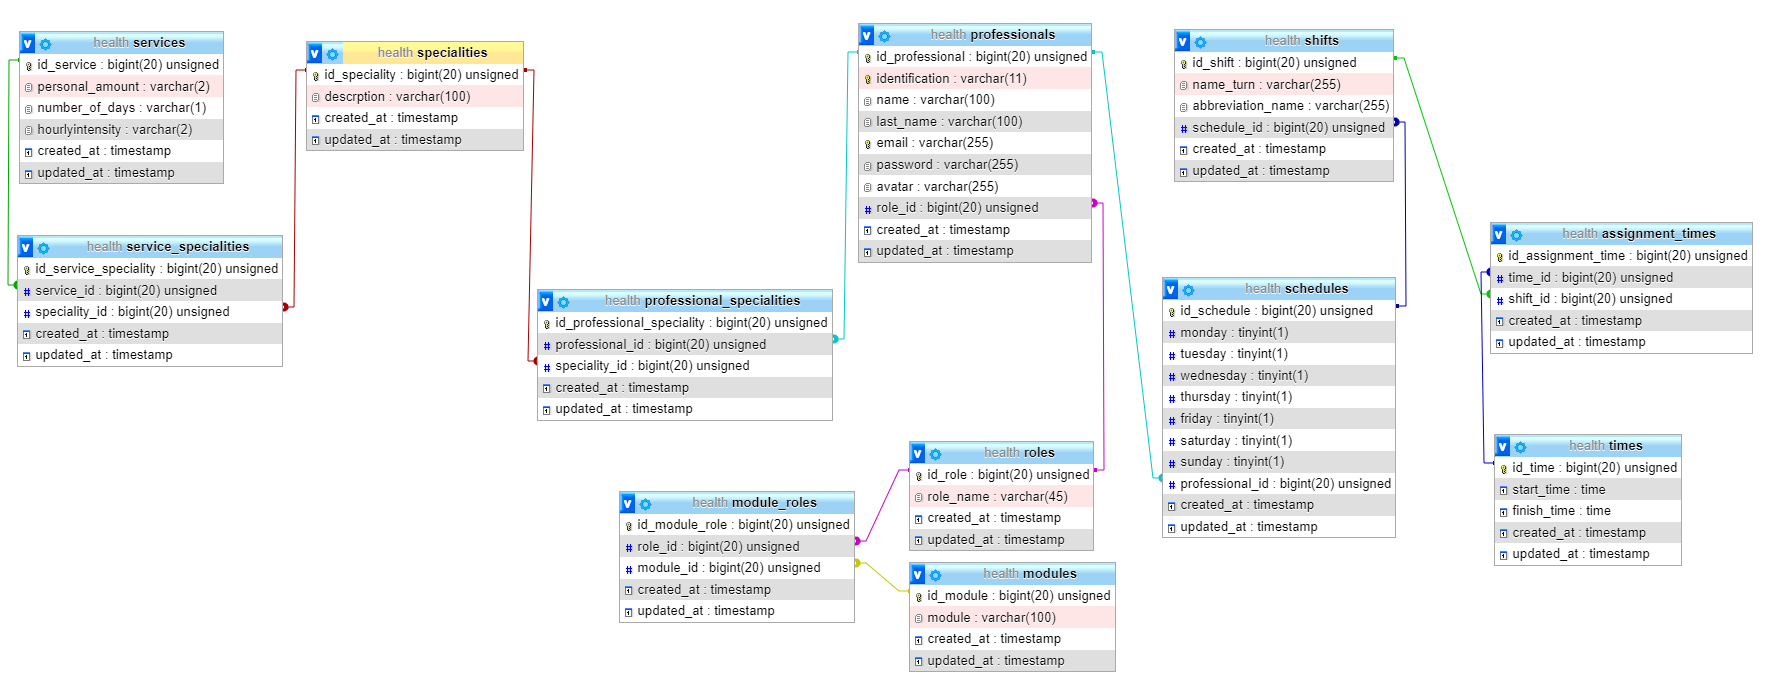
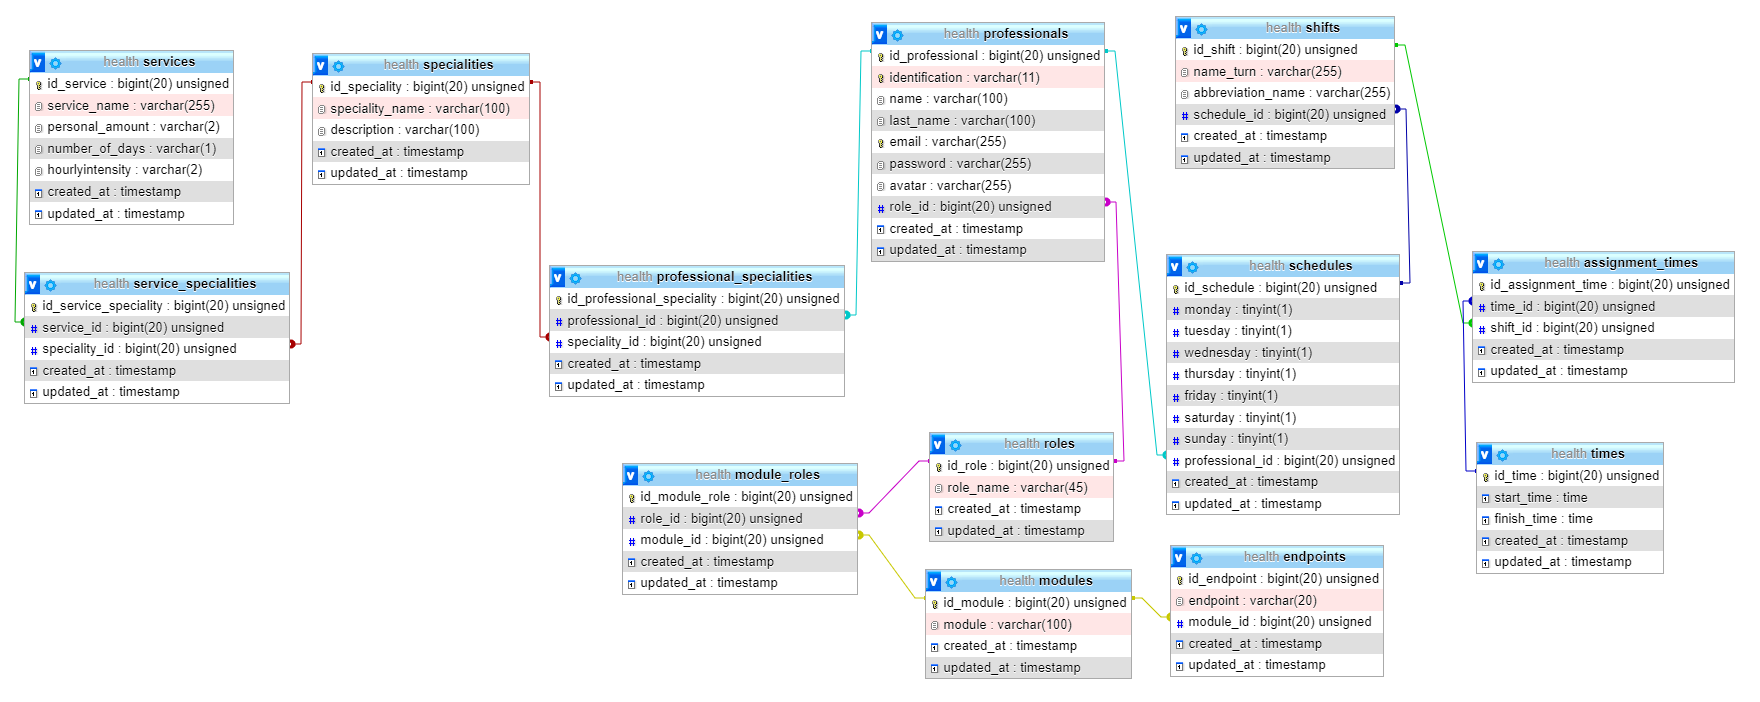
Se aniade tabla 'endpoints' a la base de datos

Changed region(s): [[0.2812, 0.0, 1.0, 0.9739], [0.0, 0.0304, 0.3125, 0.5783]]

diff --git a/backend/database/migrations/2021_10_20_201651_create_endpoints_table.php b/backend/database/migrations/2021_10_20_201651_create_endpoints_table.php
@@ -1,0 +1,36 @@
+<?php
+
+use Illuminate\Database\Migrations\Migration;
+use Illuminate\Database\Schema\Blueprint;
+use Illuminate\Support\Facades\Schema;
+
+use function PHPUnit\Framework\once;
+
+class CreateEndpointsTable extends Migration
+{
+    /**
+     * Run the migrations.
+     *
+     * @return void
+     */
+    public function up()
+    {
+        Schema::create('endpoints', function (Blueprint $table) {
+            $table->id('id_endpoint');
+            $table->string('endpoint', 20);
+            $table->unsignedBigInteger('module_id');
+            $table->foreign('module_id')->references('id_module')->on('modules')->onDelete('cascade');
+            $table->timestamps();
+        });
+    }
+
+    /**
+     * Reverse the migrations.
+     *
+     * @return void
+     */
+    public function down()
+    {
+        Schema::dropIfExists('endpoints');
+    }
+}

diff --git a/backend/database/factories/EndpointFactory.php b/backend/database/factories/EndpointFactory.php
@@ -1,0 +1,28 @@
+<?php
+
+namespace Database\Factories;
+
+use App\Models\Endpoint;
+use Illuminate\Database\Eloquent\Factories\Factory;
+
+class EndpointFactory extends Factory
+{
+    /**
+     * The name of the factory's corresponding model.
+     *
+     * @var string
+     */
+    protected $model = Endpoint::class;
+
+    /**
+     * Define the model's default state.
+     *
+     * @return array
+     */
+    public function definition()
+    {
+        return [
+            //
+        ];
+    }
+}

diff --git a/backend/database/seeders/EndpointSeeder.php b/backend/database/seeders/EndpointSeeder.php
@@ -1,0 +1,18 @@
+<?php
+
+namespace Database\Seeders;
+
+use Illuminate\Database\Seeder;
+
+class EndpointSeeder extends Seeder
+{
+    /**
+     * Run the database seeds.
+     *
+     * @return void
+     */
+    public function run()
+    {
+        //
+    }
+}

diff --git a/backend/app/Models/Endpoint.php b/backend/app/Models/Endpoint.php
@@ -1,0 +1,11 @@
+<?php
+
+namespace App\Models;
+
+use Illuminate\Database\Eloquent\Factories\HasFactory;
+use Illuminate\Database\Eloquent\Model;
+
+class Endpoint extends Model
+{
+    use HasFactory;
+}
